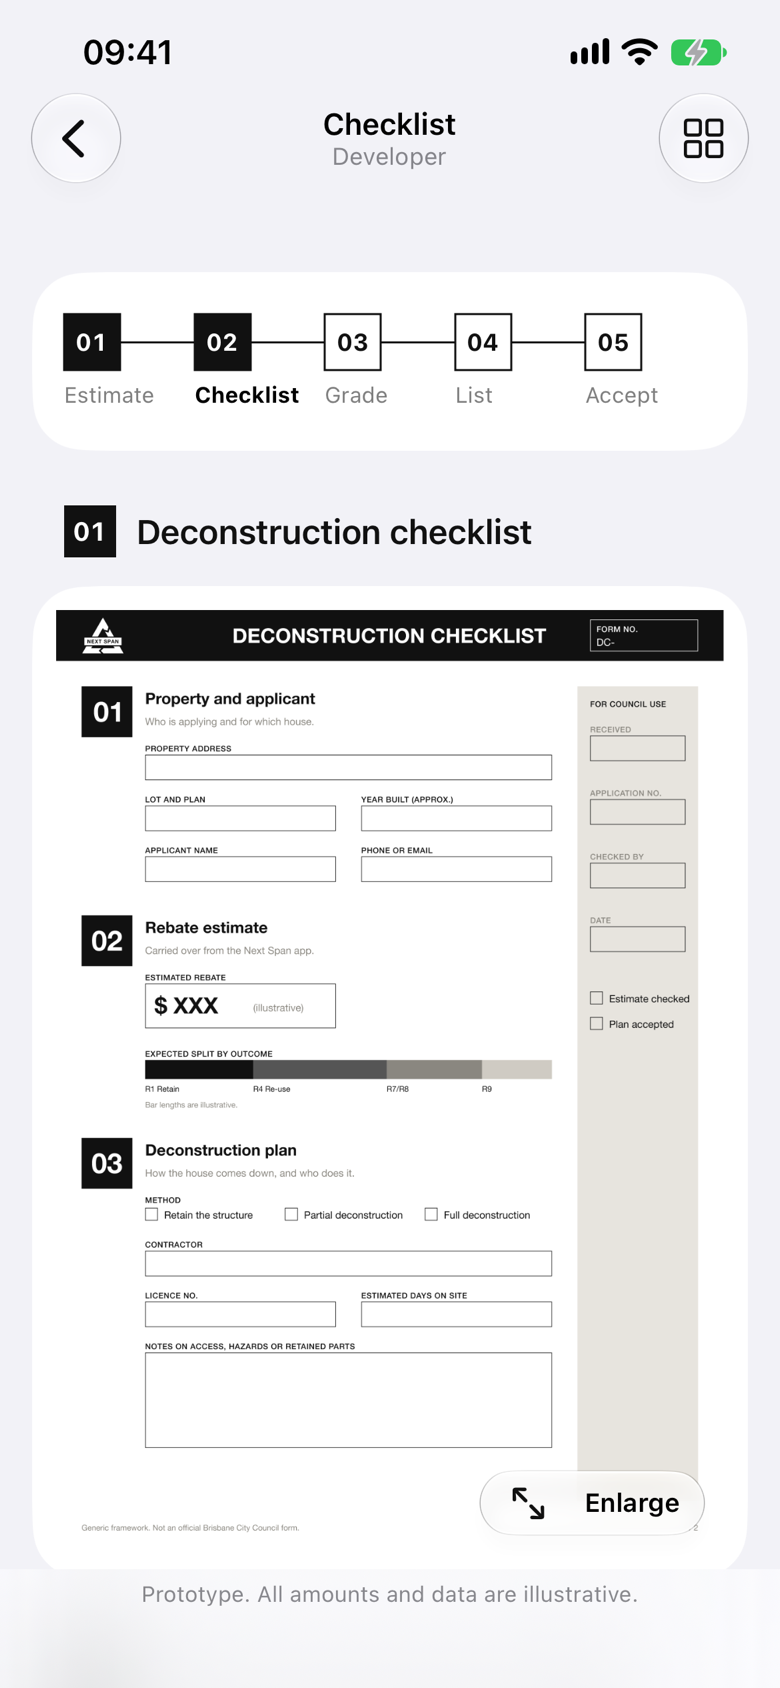
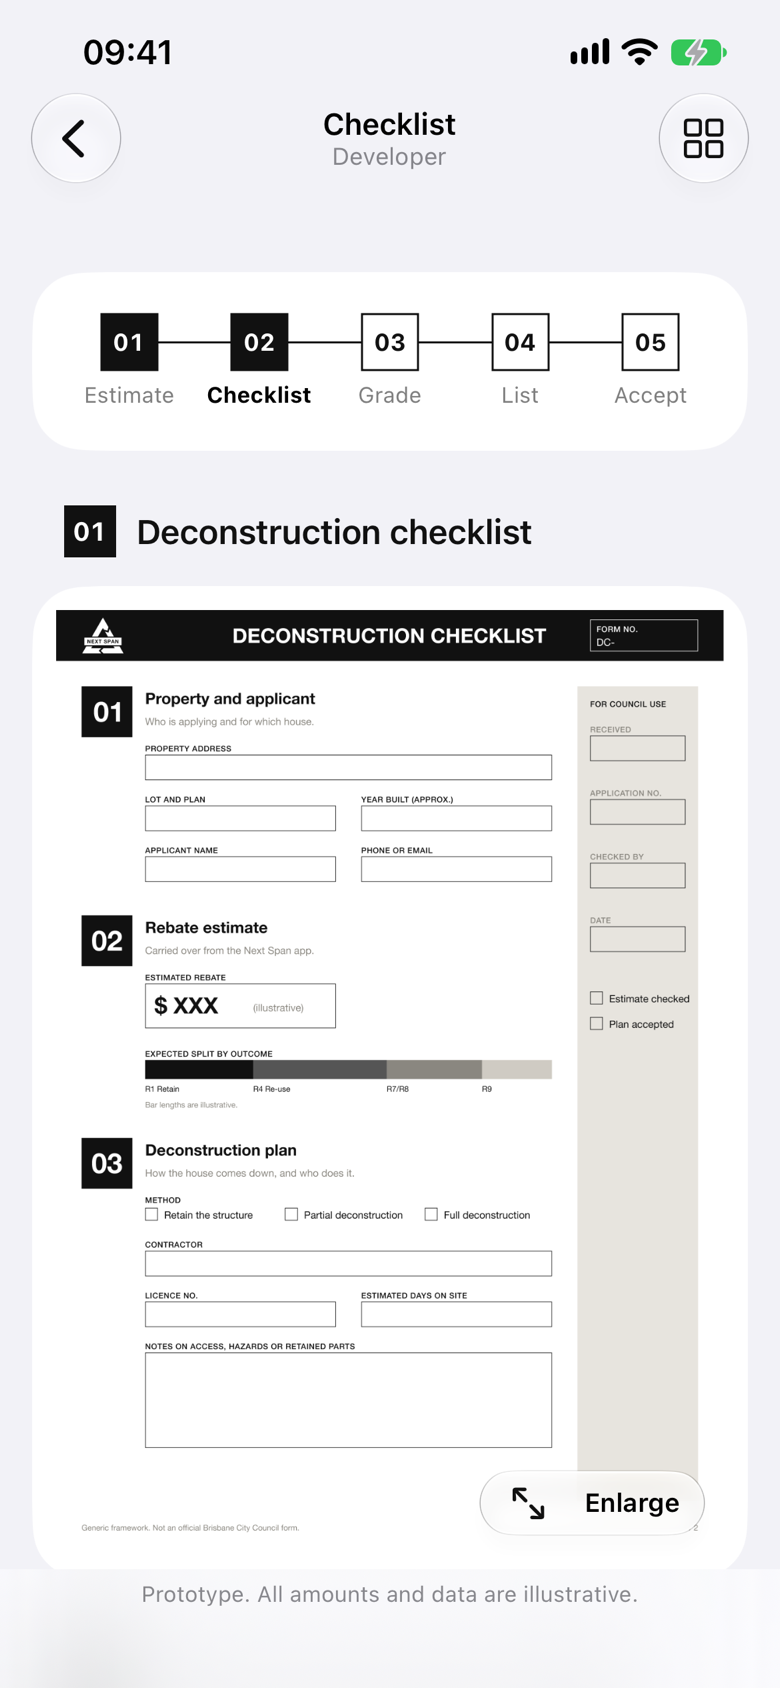
Centre the step bar so both ends have equal space (web and iOS)

diff --git a/ios/NextSpan/Components/StepBar.swift b/ios/NextSpan/Components/StepBar.swift
@@ -1,6 +1,8 @@
 import SwiftUI
 
 /// Numbered steps joined by a line, as in Claim Handbook Part 1.
+/// Each square is centred in an equal-width column and the line runs centre to centre,
+/// so the bar keeps equal space on both sides.
 struct StepBar: View {
     let steps: [String]
     let current: Int
@@ -8,25 +10,25 @@ struct StepBar: View {
     var body: some View {
         HStack(alignment: .top, spacing: 0) {
             ForEach(Array(steps.enumerated()), id: \.offset) { i, step in
-                VStack(alignment: .leading, spacing: 6) {
+                VStack(spacing: 6) {
                     HStack(spacing: 0) {
+                        Rectangle().fill(i == 0 ? Color.clear : Color.nsInk).frame(height: 1)
                         Text(String(format: "%02d", i + 1))
                             .font(.caption.weight(.bold).monospacedDigit())
                             .foregroundStyle(i <= current ? Color.white : Color.nsInk)
                             .frame(width: 28, height: 28)
                             .background(i <= current ? Color.nsInkFixed : Color.clear)
                             .overlay(Rectangle().stroke(Color.nsInk, lineWidth: 1))
-                        if i < steps.count - 1 {
-                            Rectangle().fill(Color.nsInk).frame(height: 1)
-                        }
+                        Rectangle().fill(i == steps.count - 1 ? Color.clear : Color.nsInk).frame(height: 1)
                     }
                     Text(step)
                         .font(.caption2.weight(i == current ? .bold : .regular))
                         .foregroundStyle(i == current ? .primary : .secondary)
+                        .multilineTextAlignment(.center)
                         .fixedSize(horizontal: false, vertical: true)
-                        .padding(.trailing, 4)
+                        .padding(.horizontal, 2)
                 }
-                .frame(maxWidth: .infinity, alignment: .leading)
+                .frame(maxWidth: .infinity)
             }
         }
         .accessibilityElement(children: .ignore)

diff --git a/src/styles/ios.css b/src/styles/ios.css
@@ -179,8 +179,10 @@ ul, ol { list-style: none; }
 
 /* Step bar */
 .stepbar { display: grid; gap: 0; }
-.stepbar li { display: flex; flex-direction: column; gap: 6px; position: relative; padding-right: 4px; }
-.stepbar li::before { content: ""; position: absolute; top: 14px; left: 28px; right: 0; height: 1px; background: var(--ns-ink); }
+/* Each square sits centred in its column; the line runs from one centre to the next,
+   so the bar has equal space on both sides. */
+.stepbar li { display: flex; flex-direction: column; align-items: center; gap: 6px; position: relative; text-align: center; padding: 0 2px; }
+.stepbar li::before { content: ""; position: absolute; top: 14px; left: calc(50% + 14px); right: calc(-50% + 14px); height: 1px; background: var(--ns-ink); }
 .stepbar li:last-child::before { display: none; }
 .stepbar-num {
   width: 28px; height: 28px; display: grid; place-items: center; position: relative; z-index: 1;
